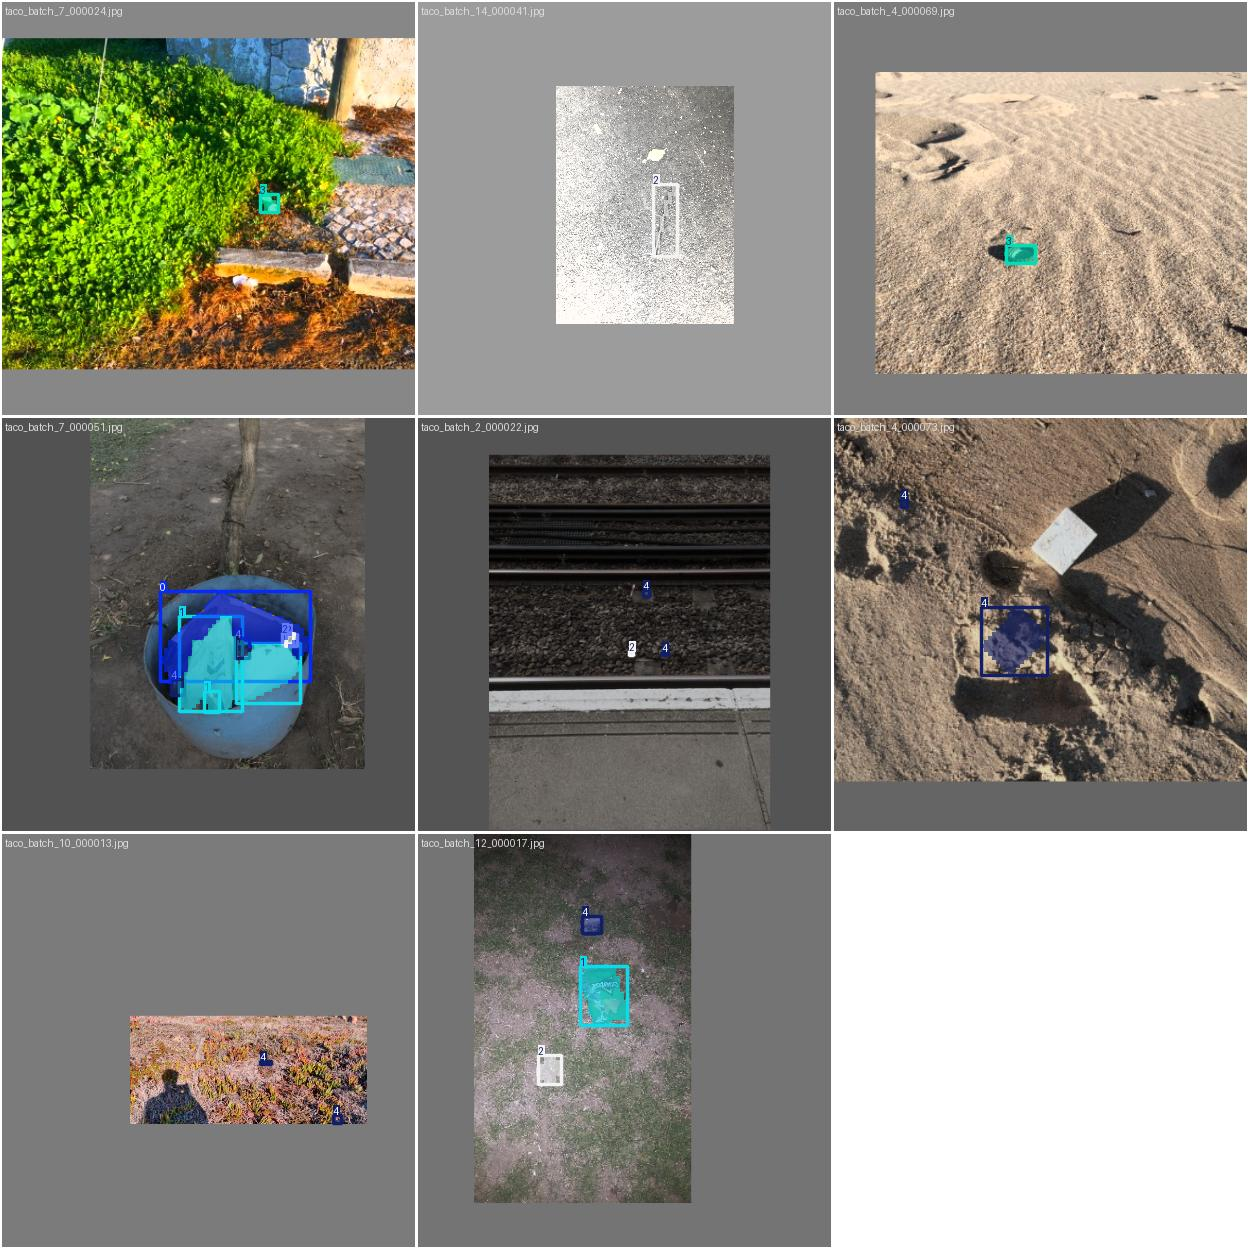
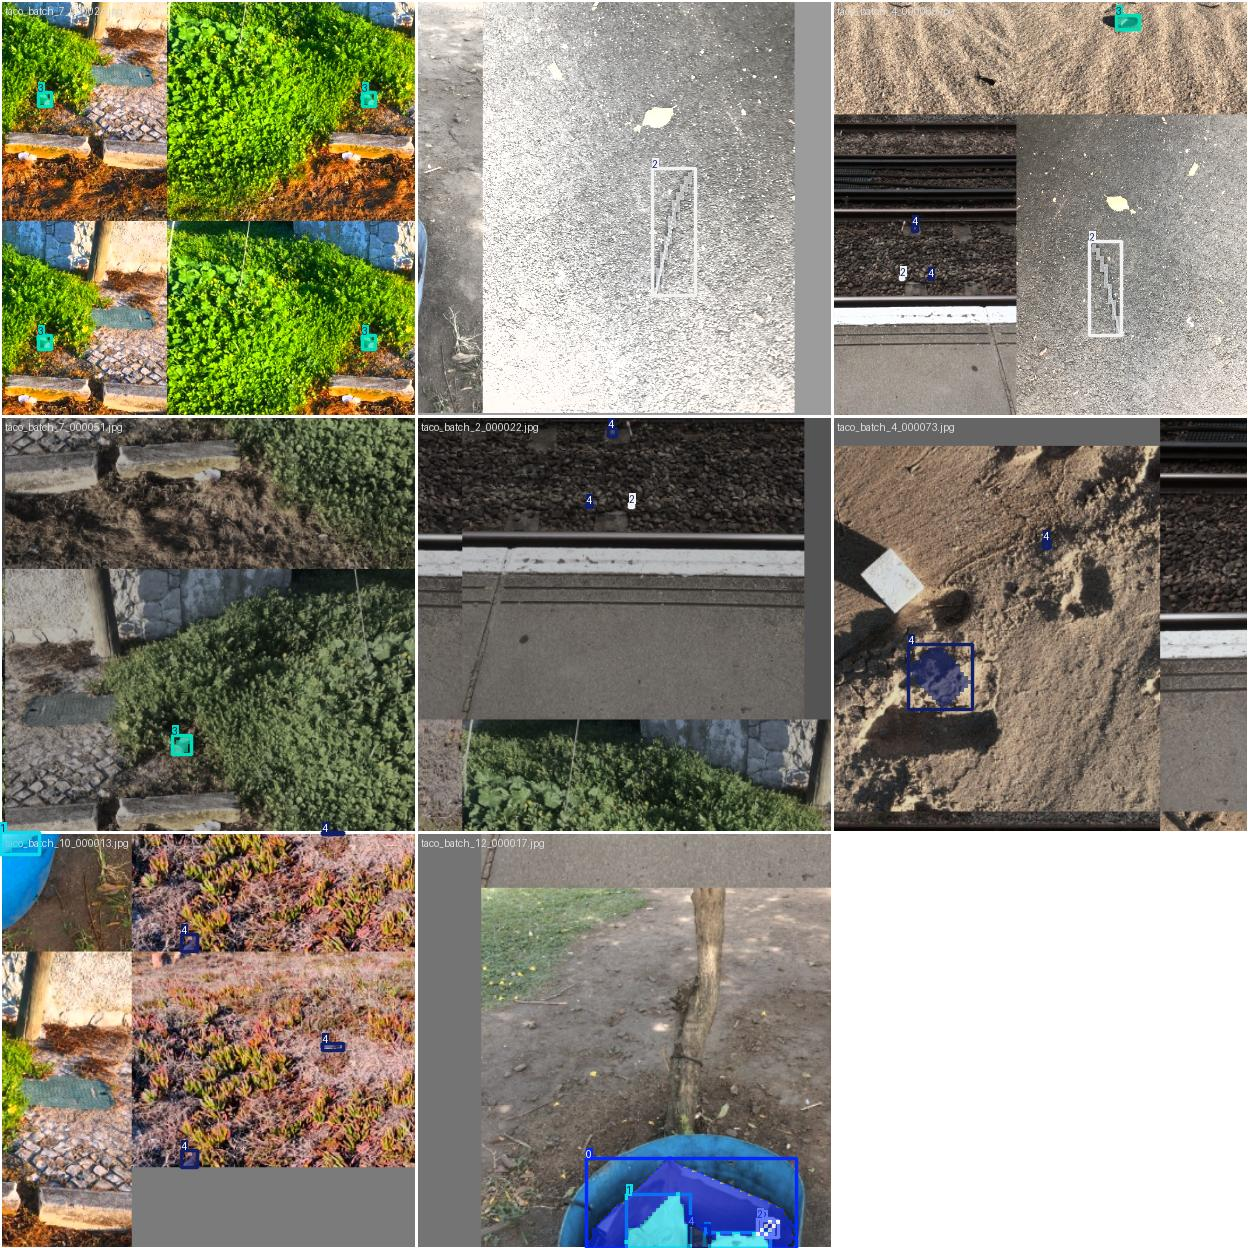
docs: dataset card, model card; ignore report outputs with dataset photos

diff --git a/docs/dataset_card.md b/docs/dataset_card.md
@@ -1,0 +1,59 @@
+# Dataset card: TACO, mapped to five waste materials
+
+## Source
+- **TACO (Trash Annotations in Context)**, Proença & Simões, 2020. [arXiv:2003.06975](https://arxiv.org/abs/2003.06975) ·
+  [github.com/pedropro/TACO](https://github.com/pedropro/TACO) · dataset DOI 10.5281/zenodo.3242156
+- 1,500 photos of litter in real environments (streets, beaches, grass, indoors), mostly taken with phones.
+  4,784 annotations across 60 categories, each with a polygon outline (instance segmentation) and a bounding box.
+- Downloaded 22 Nov 2026: `annotations.json` from the GitHub repo, plus the 640 px images served by `img.tacodataset.org`.
+
+## Licence and use
+- Images are hosted on Flickr and each carries **its own licence**. Annotations are reported as CC BY 4.0
+  (per a mirror; not confirmed on the original release).
+- This project uses the data for **education and research only**. Raw images, derived images and trained weights
+  are **not** published in the repository.
+- Cite: Proença, P. F., & Simões, P. (2020). *TACO: Trash Annotations in Context for Litter Detection.* arXiv:2003.06975.
+
+## Label mapping (60 → 5)
+Defined in [`configs/class_map.yaml`](../configs/class_map.yaml); every TACO label must map, or preparation fails.
+
+| Material | TACO labels |
+|---|---|
+| cardboard | Corrugated carton, Other carton, Egg carton, Meal carton, Pizza box, Toilet tube |
+| soft_plastic | Plastic film, Other plastic wrapper, Garbage bag, Single-use carrier bag, Polypropylene bag, Crisp packet, Six pack rings, Plastic gloves |
+| rigid_plastic | Clear / Other plastic bottle, Plastic bottle cap, Plastic lid, Disposable / Other plastic cup, Spread tub, Tupperware, Disposable / Other plastic container, Plastic utensils, Plastic straw, Squeezable tube |
+| metal | Drink can, Food can, Aerosol, Metal bottle cap, Metal lid, Pop tab, Scrap metal, Aluminium foil, Aluminium blister pack |
+| other | All glass, all paper (incl. paper cup/straw/bag), Drink carton, foam / styrofoam, Other plastic, Battery, Carded blister pack, Food waste, Rope & strings, Shoe |
+| *dropped* | Cigarette (667), Unlabeled litter (517): tiny, ambiguous items that would dominate `other` |
+
+Judgement calls: paper goes to `other` (the five classes follow a plastics/metal/cardboard sorting line);
+drink cartons are composites, so `other`; "Other plastic" is ambiguous, so `other`.
+
+## Preparation
+1. **Orientation check.** Each image is EXIF-rotated and compared with the annotation's width/height;
+   mismatches would be skipped (0 found).
+2. **One polygon per object.** Multi-part outlines keep their largest part (a YOLO-seg format constraint).
+3. **Near-duplicate removal.** 64-bit difference hash; images within Hamming distance 3 of an already-kept image
+   are removed, with test images kept first. **3 removed.**
+4. **Split** 80/10/10 into train/val/test, seed 42 (random by image; TACO has no sequence structure).
+5. Visual check: label overlays drawn on sample images match the objects.
+
+## Counts (objects per split)
+
+| Material | Train | Val | Test |
+|---|---:|---:|---:|
+| cardboard | 156 | 27 | 23 |
+| soft_plastic | 706 | 71 | 76 |
+| rigid_plastic | 771 | 103 | 107 |
+| metal | 424 | 59 | 67 |
+| other | 842 | 96 | 67 |
+| **images** | **1,197** | **150** | **150** |
+
+Source of truth: `experiments/data/class_counts.csv` and `experiments/data/manifest.json`.
+
+## Known biases and gaps
+- **Domain:** outdoor litter, not a recycling conveyor belt (different lighting, backgrounds, clutter and scale).
+- **Imbalance:** cardboard is under-represented (156 training objects vs 842 for `other`).
+- **Geography and capture:** mostly European photos taken by volunteers with phones.
+- **Not used today:** WaRP (industrial conveyor) and ZeroWaste (recycling plant) would close the domain gap.
+  See CLAUDE.md, Round 5.

diff --git a/docs/model_card.md b/docs/model_card.md
@@ -1,0 +1,53 @@
+# Model card: Waste Controller YOLO26n-seg
+
+## What it is
+- **Architecture:** Ultralytics YOLO26n-seg, a one-stage detector with an instance-segmentation head
+  (2.7 M parameters, 9.1 GFLOPs at 416 px).
+- **Starting point:** COCO-pretrained `yolo26n-seg.pt`.
+- **Fine-tuned on:** TACO mapped to 5 materials. See [dataset_card.md](dataset_card.md).
+- **Output per object:** bounding box, outline mask, material (cardboard / soft plastic / rigid plastic / metal / other)
+  and confidence. Merged masks give a per-pixel material map.
+
+## Training
+| Setting | Value | Why |
+|---|---|---|
+| Hardware | HP OmniBook 5, Snapdragon X CPU, 8 GB RAM, no GPU | Owner's laptop |
+| Image size | 416 | ~2.5× faster than 640 on CPU |
+| Batch size | 8 | Fits 8 GB RAM |
+| Epochs | 30 | ~4 min/epoch measured, so ~2 h |
+| Frozen layers | first 10 (backbone) | Faster CPU training; keeps pretrained features |
+| Workers | 2 | RAM headroom |
+| Seed | 42, deterministic | Reproducibility |
+| Optimiser, LR schedule, augmentation | Ultralytics defaults (auto optimiser, mosaic, HSV, flips) | Tuned defaults |
+
+Every run is logged in `experiments/experiments.jsonl` (config, seed, git commit, metrics, hardware, wall time).
+
+## Results
+1-epoch timing run (validation split): box mAP@0.5 0.137, mask mAP@0.5 0.127; 36 ms per image inference on CPU.
+
+Full run (test split, 150 photos): _filled in after training_.
+
+| Metric | Test |
+|---|---|
+| Mask mAP@0.5 | _pending_ |
+| Mask mAP@0.5:0.95 | _pending_ |
+| Box mAP@0.5 | _pending_ |
+| Box mAP@0.5:0.95 | _pending_ |
+| End-to-end CPU latency | _pending_ |
+
+## Intended use
+- Demonstrating waste detection and segmentation for a course project; exploring what a sorting-line vision
+  system would see.
+- **Not for:** operational sorting decisions, safety-critical use, or commercial use (data licences are
+  education/research).
+
+## Limitations
+- Trained on outdoor litter; it will degrade on conveyor-belt footage until fine-tuned on such data (WaRP, ZeroWaste).
+- Small, occluded or cluttered items are often missed. Look-alike materials (clear plastic vs glass, coated paper vs
+  cardboard) are confused.
+- Cardboard has the fewest training examples and is the least reliable class.
+- CPU-only training for 30 epochs at 416 px: accuracy is well below what a GPU run at 640 px would reach.
+
+## Responsible use
+- Show confidence with every prediction (the app does) and keep a human in the loop.
+- Re-evaluate on data from the target site before relying on it. The model has never seen a recycling facility.
